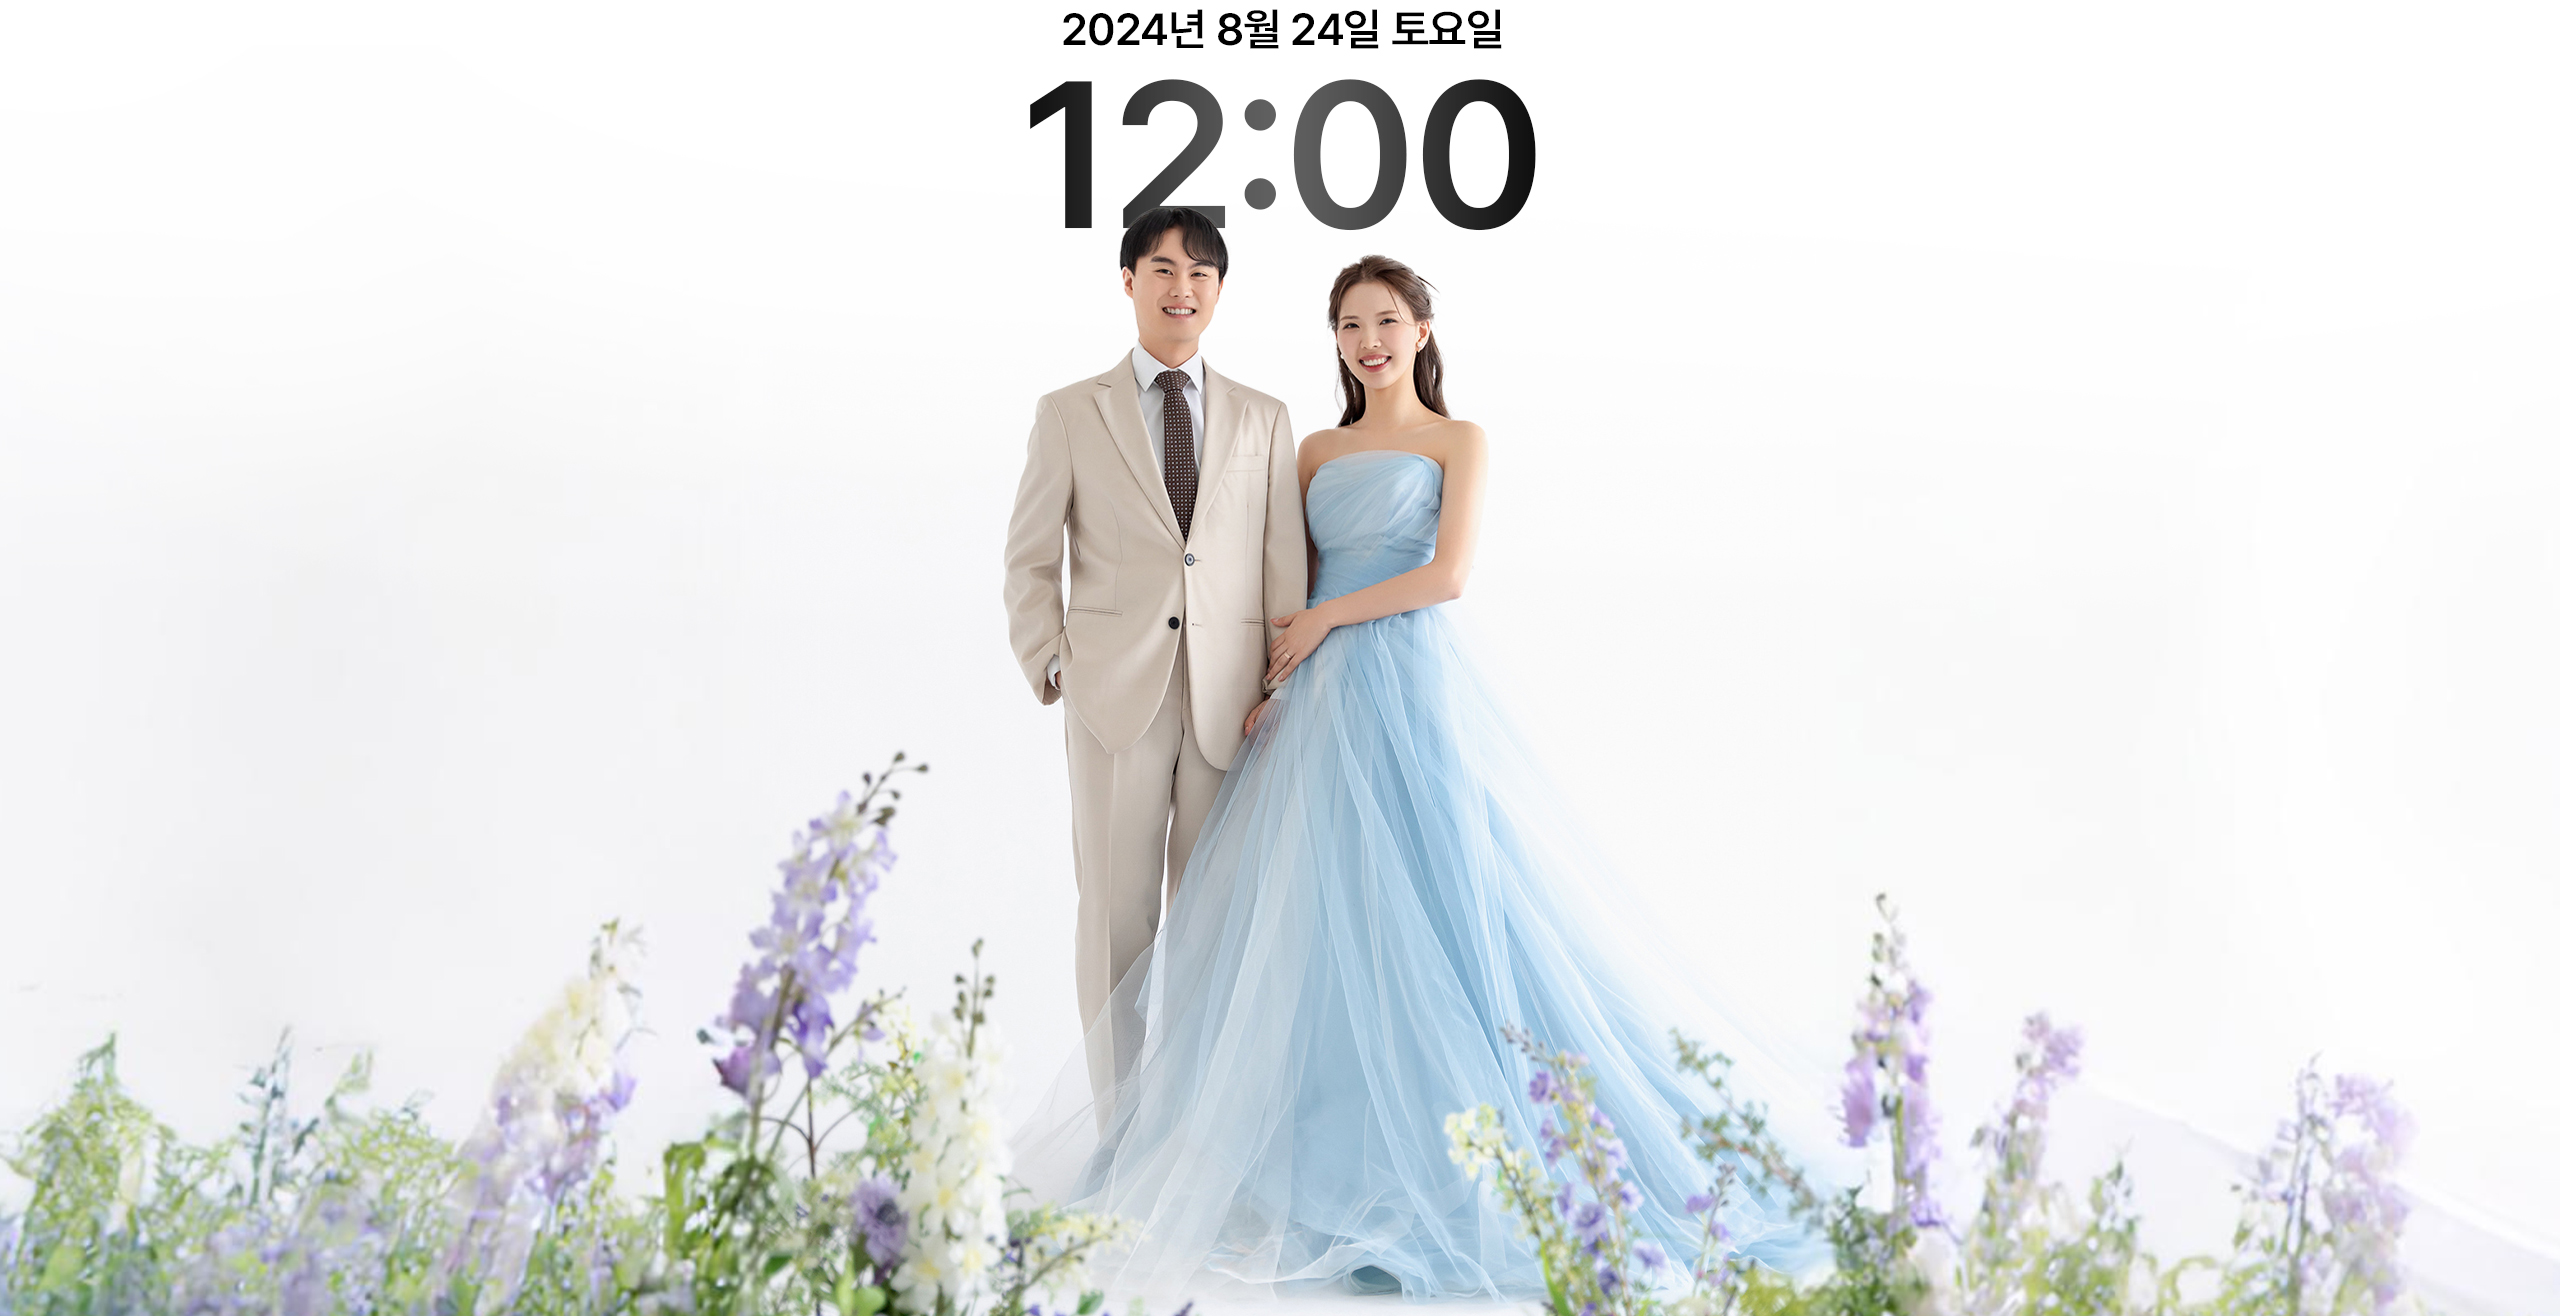
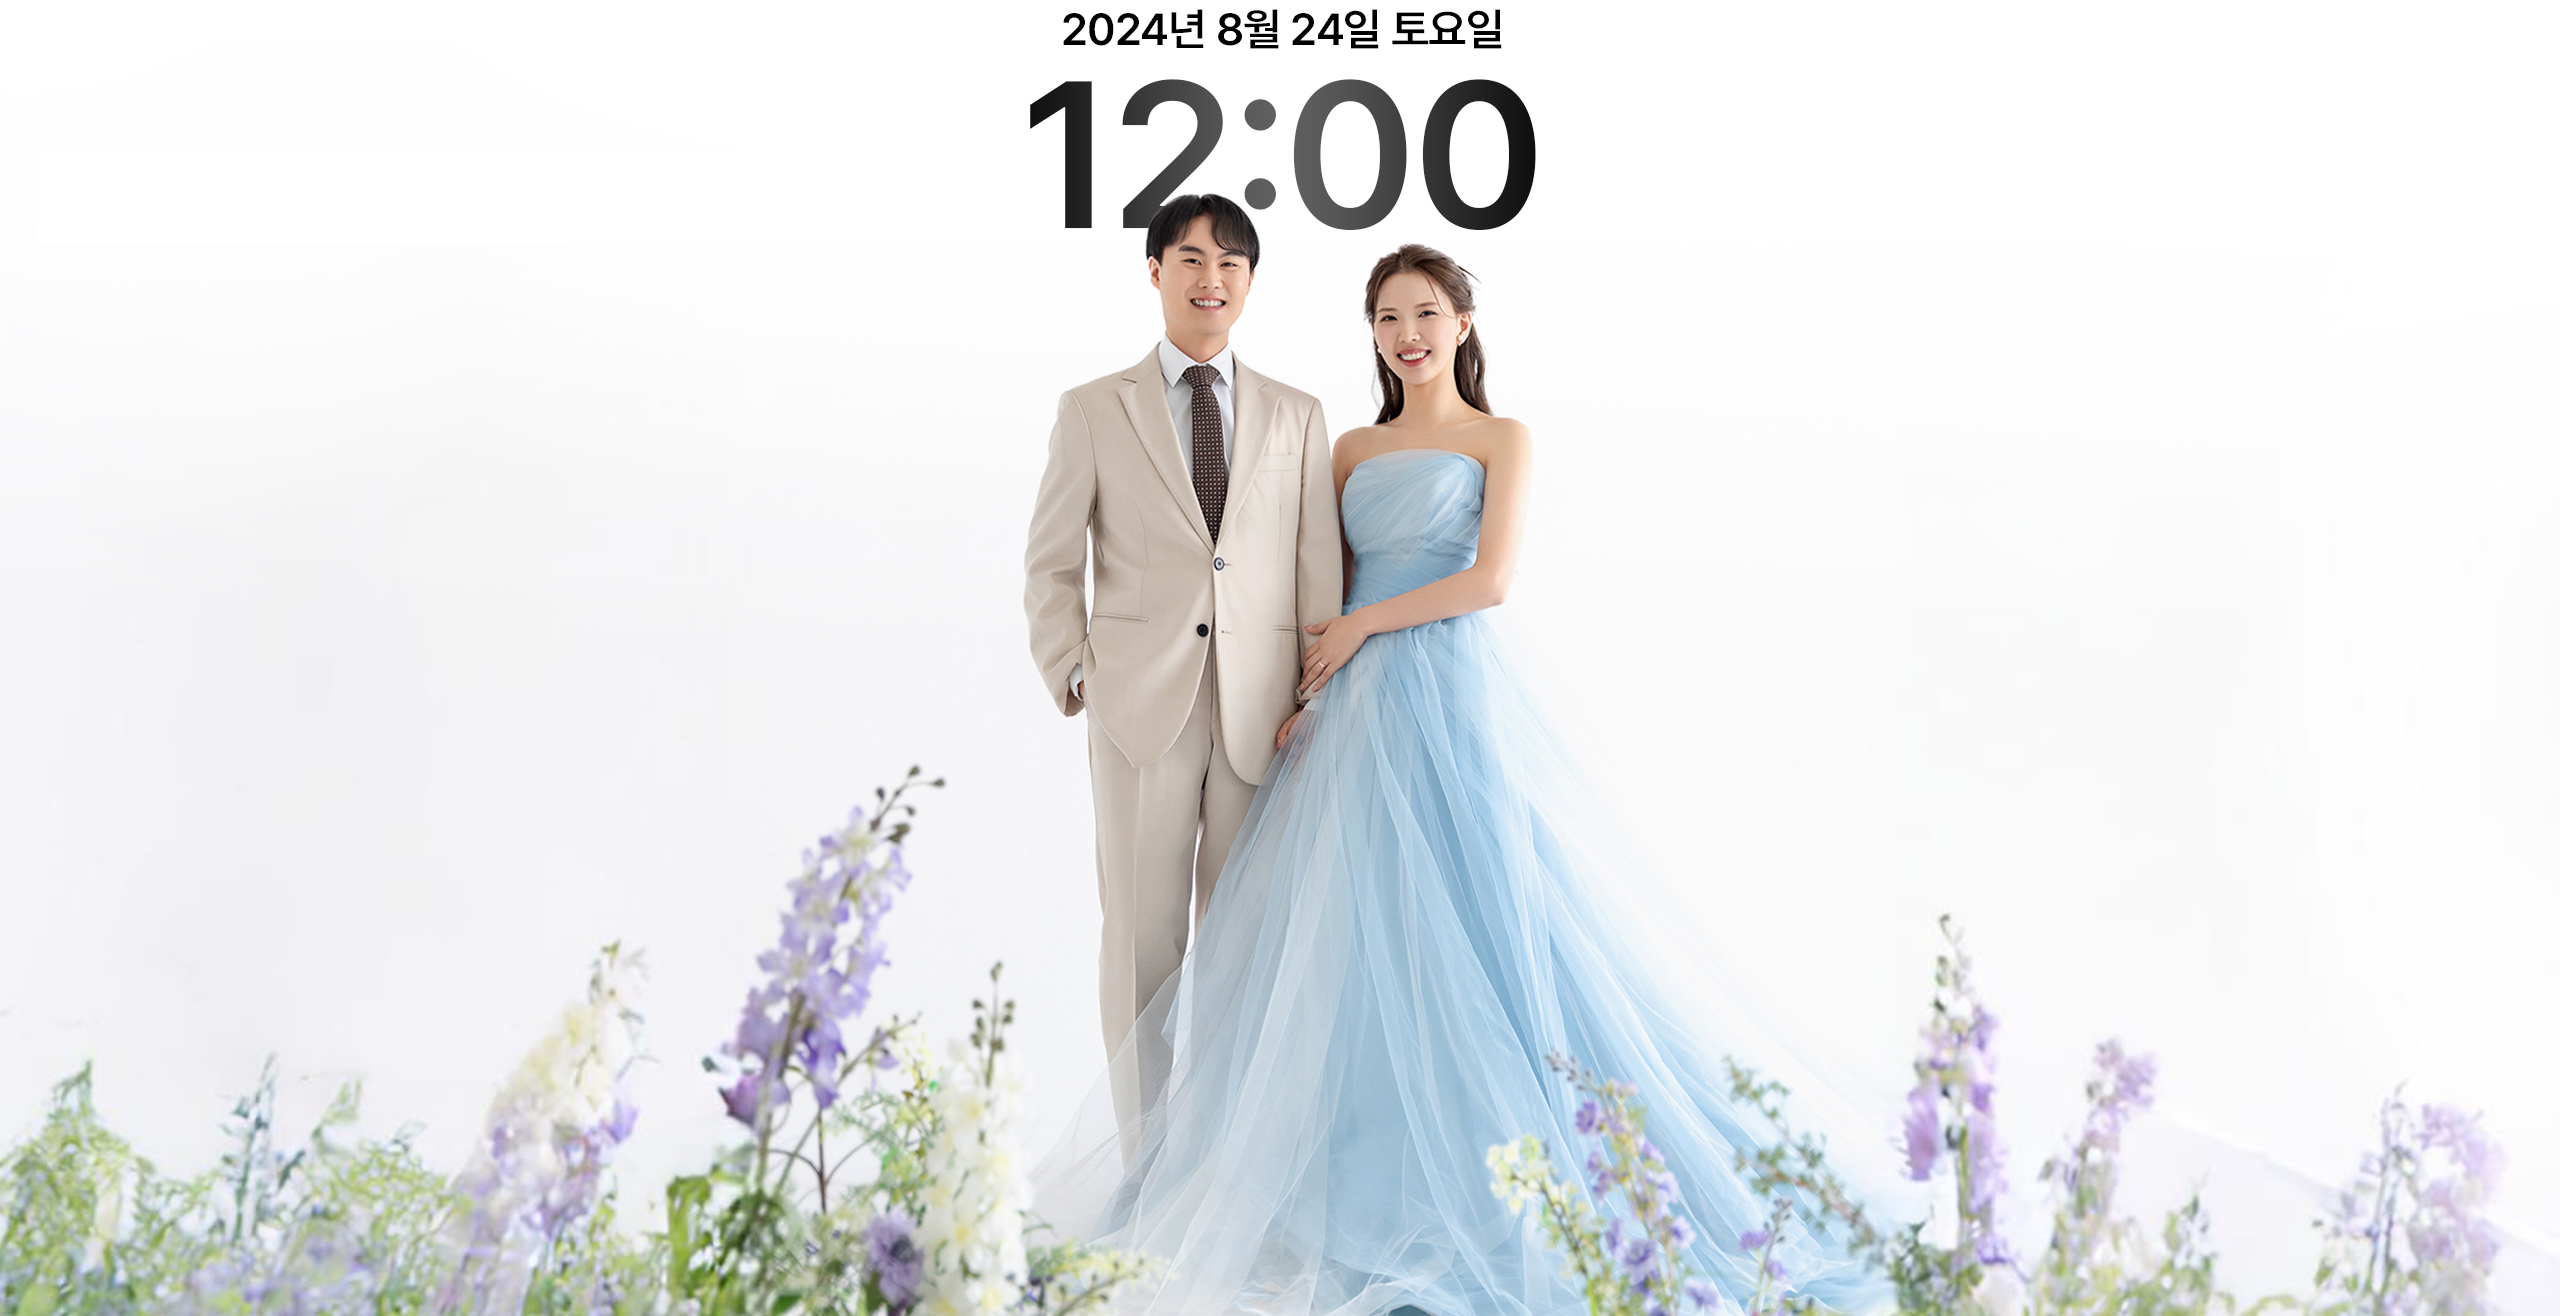
메인 이미지 수정, 코드 정리

Changed region(s): [[0.0, 0.1558, 1.0, 1.0]]

diff --git a/index.html b/index.html
@@ -796,8 +796,7 @@
 		</section>
 		<!-- maps end -->
 		<!-- info start -->
-		<section id="info" class="subsection section section-why-apple background-alt" data-anim-scroll-group="Why Apple"
-			data-analytics-section-engagement="name:why apple">
+		<section id="info" class="subsection section section-why-apple background-alt">
 			<div class="responsive-content">
 				<div class="responsive-content-viewport-content">
 					<header class="section-header">
@@ -806,6 +805,16 @@
 							<div class="section-header-desc">축하해주시는 마음과 손길을 <br class="small">잊지 않겠습니다</div>
 						</div>
 					</header>
+					<div class="info-account-box"  data-textanim-1>
+						<div class="icon-card-info info-account">
+							<p><span class="name">장누가</span><a href="javascript:void(0);" onclick="activateCopied(event)"><span class="bank">국민</span><span class="novisual">은행 </span>916402-01-159493</a></p>
+							<p><span class="name">장&nbsp;&nbsp;실</span><a href="javascript:void(0);" onclick="activateCopied(event)"><span class="bank">농협</span><span class="novisual"> </span>352-0707-0513-73</a></p>
+							<p><span class="name">백송이</span><a href="javascript:void(0);" onclick="activateCopied(event)"><span class="bank">광주</span><span class="novisual">은행 </span>006-121-852483</a></p>
+							<p><span class="name">백병기</span><a href="javascript:void(0);" onclick="activateCopied(event)"><span class="bank">농협</span><span class="novisual"> </span>521149-52-050787</a></p>
+						</div>
+						<!-- <span class="desc"><small>계좌번호를 누르면 클립보드에 복사됩니다</small></span> -->
+						<div class="copied-box"><span id="copied">✅ 복사되었습니다</span></div>
+					</div>
 				</div>
 			</div>
 			<div class="slide-gallery-container" data-component-list="SlideGallery">
@@ -910,13 +919,13 @@
 																				<div class="people-info">
 																					<span class="people-name">성명희 <small>어머님</small></span>
 																					<div class="people-tel">
-																						<a href="tel:01036048913">
+																						<a href="tel:01046038913">
 																							<svg xmlns="http://www.w3.org/2000/svg" width="14" height="14" fill="currentColor" class="bi bi-telephone-fill" viewBox="0 0 16 16">
 																								<path fill-rule="evenodd" d="M1.885.511a1.745 1.745 0 0 1 2.61.163L6.29 2.98c.329.423.445.974.315 1.494l-.547 2.19a.68.68 0 0 0 .178.643l2.457 2.457a.68.68 0 0 0 .644.178l2.189-.547a1.75 1.75 0 0 1 1.494.315l2.306 1.794c.829.645.905 1.87.163 2.611l-1.034 1.034c-.74.74-1.846 1.065-2.877.702a18.6 18.6 0 0 1-7.01-4.42 18.6 18.6 0 0 1-4.42-7.009c-.362-1.03-.037-2.137.703-2.877z"/>
 																							</svg>
 																							전화
 																						</a>
-																						<a href="sms:01036048913">
+																						<a href="sms:01046038913">
 																							<svg xmlns="http://www.w3.org/2000/svg" width="14" height="14" fill="currentColor" class="bi bi-chat-fill" viewBox="0 0 16 16">
 																								<path d="M8 15c4.418 0 8-3.134 8-7s-3.582-7-8-7-8 3.134-8 7c0 1.76.743 3.37 1.97 4.6-.097 1.016-.417 2.13-.771 2.966-.079.186.074.394.273.362 2.256-.37 3.597-.938 4.18-1.234A9 9 0 0 0 8 15"/>
 																							</svg>
@@ -1039,7 +1048,7 @@
 									</div>
 								</div>
 							</li>
-							<li role="listitem" id="variable-width-gallery-item-1" class="gallery-item gallery-item-trade-in"
+							<!-- <li role="listitem" id="variable-width-gallery-item-1" class="gallery-item gallery-item-trade-in"
 								data-analytics-gallery-item-id="apple trade in" data-ac-gallery-item>
 								<div class="card card-padding background-alt">
 									<div class="card-viewport-content">
@@ -1095,8 +1104,8 @@
 										</div>
 									</div>
 								</div>
-							</li>
-							<li role="listitem" id="variable-width-gallery-item-3" class="gallery-item gallery-item-delivery"
+							</li> -->
+							<li role="listitem" id="variable-width-gallery-item-2" class="gallery-item gallery-item-delivery"
 								data-analytics-gallery-item-id="delivery-pickup" data-ac-gallery-item>
 								<div class="card card-padding background-alt">
 									<div class="card-viewport-content">
@@ -1116,7 +1125,7 @@
 									</div>
 								</div>
 							</li>
-							<li role="listitem" id="variable-width-gallery-item-4" class="gallery-item gallery-item-delivery"
+							<li role="listitem" id="variable-width-gallery-item-3" class="gallery-item gallery-item-delivery"
 								data-analytics-gallery-item-id="delivery-pickup" data-ac-gallery-item>
 								<div class="card card-padding background-alt">
 									<div class="card-viewport-content">
@@ -1193,7 +1202,7 @@
 					<br>세상이 다 겨울이어도
 					<br>우리 사랑은 늘 봄처럼 따뜻하고
 					<br>간혹, 여름처럼 뜨거울 겁니다.
-					<br>- 이수동, 사랑가
+					<br><small>- 이수동, 사랑가</small>
 					<!-- <br>BGM : Ryan Mack - Forever and Ever and Always -->
 				</p>
 			</section>

diff --git a/css/style.css b/css/style.css
@@ -44,7 +44,8 @@ html.inline-media-component.no-reduced-motion .section-welcome .welcome__video-m
 html.inline-media-component.no-reduced-motion .section-welcome .welcome__video-avail {padding-top: 0;}
 html.inline-media-component-container .video-wrapper .end-frame img {width: unset; height:100%}
 html.inline-media-component.no-reduced-motion .section-welcome .welcome__video-avail > img {height:calc(100vh - 100px);}
-html.inline-media-component.no-reduced-motion .section-welcome .welcome__video-avail #welcome-visual {width:100%; height:calc(100vh - 100px); background-image: url(../images/main/main_desktop.jpg); background-size: cover; background-position: top;}
+html.inline-media-component.no-reduced-motion .section-welcome .welcome__video-avail #welcome-visual {background-image: url(../images/main/main_desktop.jpg);}
+html.inline-media-component.no-reduced-motion .section-welcome .welcome__video-avail #welcome-visual {width:100%; height:calc(100vh - 100px); background-size: cover; background-position: top;}
 .welcome__lockup {position: relative;top: -200px;z-index: 999;}
 @media only screen and (max-width: 1068px) {
     html.inline-media-component.no-reduced-motion .section-welcome .welcome__video-media {--p-height:90vh}
@@ -178,14 +179,22 @@ html.inline-media-component.no-reduced-motion .section-welcome .welcome__video-a
 .people-card-img-picture {width:100%; height: 100%; border-radius: 50%; background-color: #fff; background-size:cover;}
 .groom.people-card-img-picture {background-image: url('../images/people/people_groom.png');}
 .bride.people-card-img-picture {background-image: url('../images/people/people_bride.png');}
+#info .section-header {padding-bottom:10px; display: block;}
+.info-account-box h4 {font-size:1.6em; margin-top:20px}
+.info-account-box .icon-card-info {display:grid; width:55%; min-width:800px; grid-row-gap: 5px; grid-template-columns: 50% 50%; padding-top:10px}
+.info-account-box .icon-card-info p {display:flex;}
+.info-account-box .desc {margin: 0 0 10px; display: block; font-size: 1em; color: #6c6c6c;}
 @media only screen and (max-width: 1068px)  {
     .card.card-padding {min-width: 270px; }
     .icon-card-body {display: block;}
+    .info-account-box .icon-card-info {min-width:730px;}
 }
 @media only screen and (max-width: 734px) {
     .icon-card-info h2 {margin-left:0}
     #copied {text-align: center;}
     .slide-gallery .item-container {grid-gap: 12px}
+    .info-account-box .icon-card-info {display: block}
+    .info-account-box h4, .info-account-box .icon-card-info p {margin-inline-start: unset; margin-inline-end: unset;}
 }
 @media only screen and (max-width: 374px) {
     .card.card-padding {min-width:200px !important}
@@ -199,3 +208,4 @@ html.inline-media-component.no-reduced-motion .section-welcome .welcome__video-a
 #ac-globalfooter div .footer-profile a {display:inline-block; width:40px; margin-right: 7px;}
 #ac-globalfooter div .footer-profile a img {width:100%}
 .ac-gf-sosumi p {text-align:right !important}
+.ac-gf-sosumi p small {font-size: .85em !important;}

diff --git a/js/script.js b/js/script.js
@@ -41,7 +41,7 @@ function activateCopied(event) {
 
         setTimeout(function () {
             copiedElement.classList.remove('active');
-        }, 3000);
+        }, 1000);
     }
 }
 
